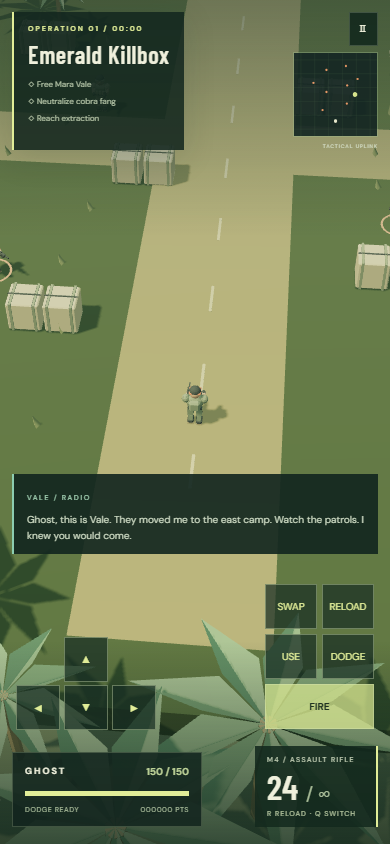
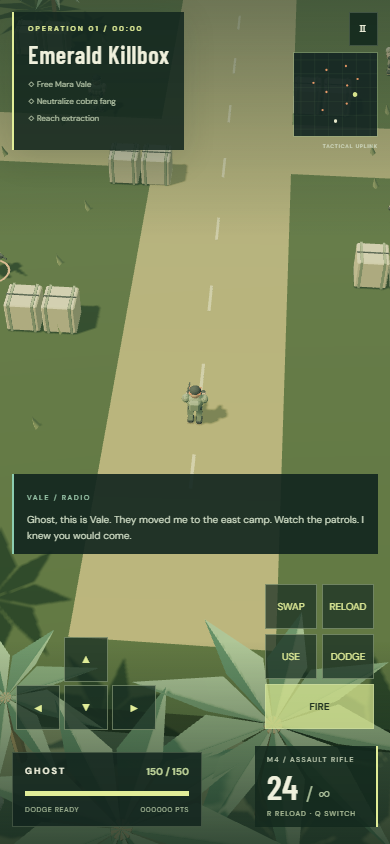
Batch articulated geometry and make cloud browser checks state-driven

diff --git a/tests/game.spec.ts b/tests/game.spec.ts
@@ -11,19 +11,31 @@ test("renders Blender assets, accepts movement/fire, pauses and retries", async 
   await expect(page.locator("#hud")).toBeVisible();
   const z = await page.evaluate(() => (window as any).__nightfall.game.pos.z);
   await page.keyboard.down("KeyW");
-  await page.waitForTimeout(700);
+  await expect
+    .poll(() => page.evaluate(() => (window as any).__nightfall.game.pos.z), {
+      timeout: 15000,
+    })
+    .toBeLessThan(z - 1);
   await page.keyboard.up("KeyW");
   expect(
     await page.evaluate(() => (window as any).__nightfall.game.pos.z),
   ).toBeLessThan(z - 1);
   await page.keyboard.down("Space");
-  await page.waitForTimeout(500);
+  await expect
+    .poll(() => page.evaluate(() => (window as any).__nightfall.game.ammo), {
+      timeout: 15000,
+    })
+    .toBeLessThan(24);
   await page.keyboard.up("Space");
   expect(
     await page.evaluate(() => (window as any).__nightfall.game.ammo),
   ).toBeLessThan(24);
   await page.keyboard.press("KeyR");
-  await page.waitForTimeout(1400);
+  await expect
+    .poll(() => page.evaluate(() => (window as any).__nightfall.game.ammo), {
+      timeout: 15000,
+    })
+    .toBe(24);
   expect(await page.evaluate(() => (window as any).__nightfall.game.ammo)).toBe(
     24,
   );
@@ -41,7 +53,9 @@ test("renders Blender assets, accepts movement/fire, pauses and retries", async 
   await page.evaluate(() => {
     (window as any).__nightfall.game.hp = 0;
   });
-  await expect(page.locator("#result-primary")).toContainText("RETRY");
+  await expect(page.locator("#result-primary")).toContainText("RETRY", {
+    timeout: 20000,
+  });
   await page.locator("#result-primary").click();
   await expect(page.locator("#hud")).toBeVisible();
   expect(await page.evaluate(() => (window as any).__nightfall.game.hp)).toBe(

diff --git a/src/world.ts b/src/world.ts
@@ -29,6 +29,42 @@ export async function loadAssets(progress: (n: number) => void) {
           o.receiveShadow = true;
         }
       });
+      // Batch rigid geometry inside each joint, never across animated pivots.
+      if (["commando", "rifleman", "captive"].includes(name)) {
+        const joints: T.Object3D[] = [];
+        g.scene.traverse((o) => {
+          if (o.userData.joint) joints.push(o);
+        });
+        for (const joint of joints) {
+          const groups = new Map<T.Material, T.Mesh[]>();
+          for (const child of joint.children) {
+            if (
+              child instanceof T.Mesh &&
+              !Array.isArray(child.material) &&
+              child.children.length === 0
+            ) {
+              const list = groups.get(child.material) ?? [];
+              list.push(child);
+              groups.set(child.material, list);
+            }
+          }
+          for (const [material, parts] of groups) {
+            if (parts.length < 2) continue;
+            const geometries = parts.map((part) => {
+              part.updateMatrix();
+              return part.geometry.clone().applyMatrix4(part.matrix);
+            });
+            const geometry = mergeGeometries(geometries);
+            for (const item of geometries) item.dispose();
+            if (!geometry) continue;
+            for (const part of parts) joint.remove(part);
+            const mesh = new T.Mesh(geometry, material);
+            mesh.castShadow = true;
+            mesh.receiveShadow = true;
+            joint.add(mesh);
+          }
+        }
+      }
       templates.set(name, g.scene);
       progress(++done / names.length);
     }),

diff --git a/playwright.config.ts b/playwright.config.ts
@@ -2,10 +2,26 @@ import { defineConfig } from "@playwright/test";
 export default defineConfig({
   testDir: "tests",
   testMatch: "*.spec.ts",
-  timeout: 60000,
+  timeout: process.env.CI ? 120000 : 60000,
   workers: 1,
   use: {
     baseURL: "http://127.0.0.1:5177",
+    storageState: process.env.CI
+      ? {
+          cookies: [],
+          origins: [
+            {
+              origin: "http://127.0.0.1:5177",
+              localStorage: [
+                {
+                  name: "nightfall-prefs",
+                  value: JSON.stringify({ low: true, sound: false }),
+                },
+              ],
+            },
+          ],
+        }
+      : undefined,
     viewport: { width: 1440, height: 900 },
     launchOptions: { args: ["--enable-unsafe-swiftshader"] },
     screenshot: "only-on-failure",

diff --git a/docs/ANIMATION_REVIEW.md b/docs/ANIMATION_REVIEW.md
@@ -39,3 +39,7 @@ Helicopter blades rotate together around an authored rotor pivot. The tank's tur
 ## Remaining limits
 
 This is procedural articulated animation over Blender-authored rigid parts, not skinned animation, ragdoll physics, motion capture or exact foot IK. Falls are authored approximations, with bodies removed from collision immediately to preserve combat readability. Camera-scale limb motion is intentionally exaggerated. Physical phone performance and a broad cross-browser/human playtest remain unverified. No claims of those systems being complete are made.
+
+## Software-rendered CI follow-up
+
+The first cloud run exposed timing assumptions in browser tests: fixed keyboard/reload waits advanced too few simulation steps under slow software WebGL, and the three-mission test exhausted its time limit. Verification now waits for actual position/ammunition state, uses the existing low-graphics profile in CI, and allows a bounded longer cloud test timeout. Local visual checks retain full graphics. Geometry is also batched by material **within** each rigid joint, reducing draw calls without merging across animated limbs. The same pose, death-isolation, gameplay and campaign tests were rerun after this optimization.
